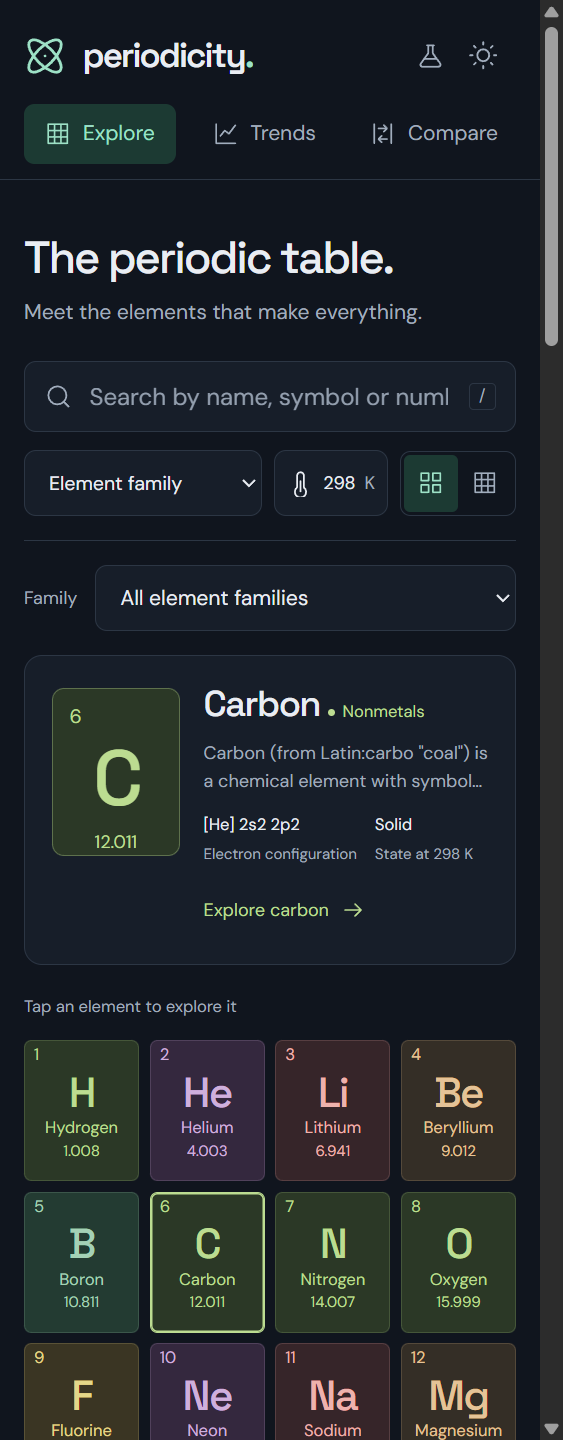
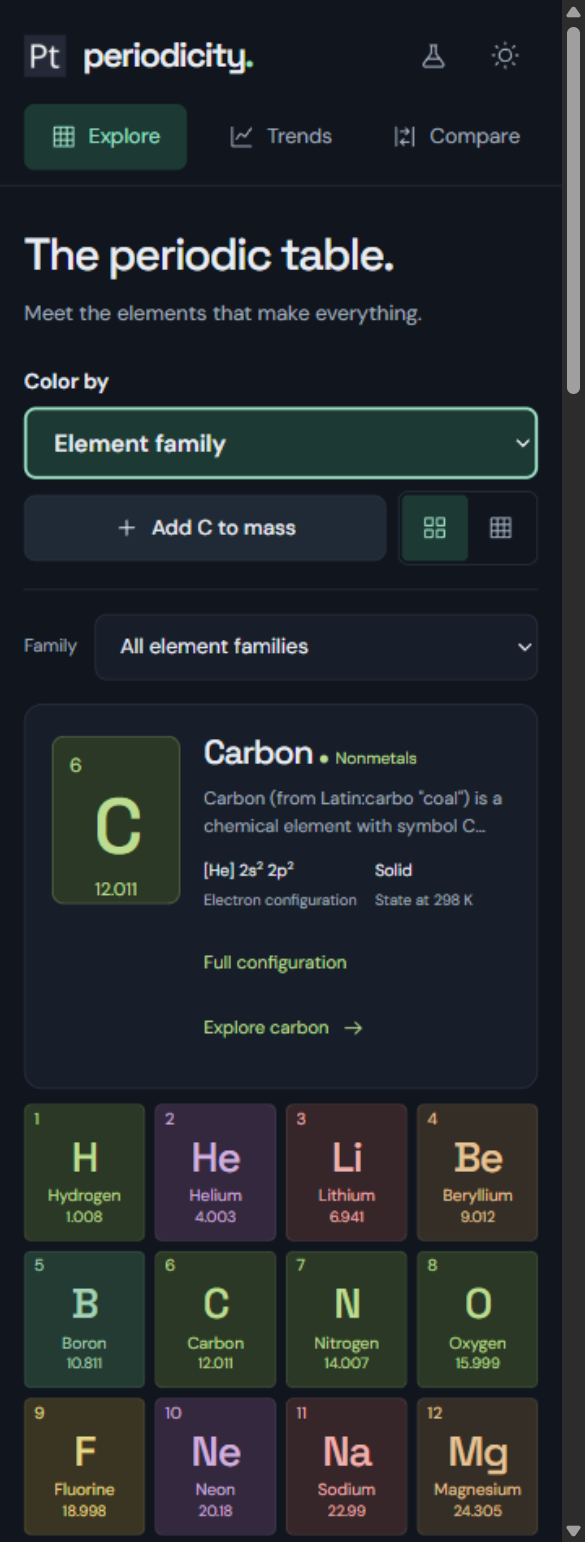
Expand README with feature screenshots
- Document periodic table, trends, comparison, and calculator workflows
- Add screenshots for desktop, mobile, appearance, and feature examples

diff --git a/README.md b/README.md
@@ -2,7 +2,7 @@
 
 An interactive atlas of all 118 chemical elements, rebuilt with **Bun, SvelteKit 3, Svelte 5, and TypeScript**.
 
-![Periodicity in dark appearance](screenshots/periodicity-desktop.png)
+![Periodicity desktop periodic table in dark appearance](screenshots/periodicity-desktop.png)
 
 Explore the periodic table, follow six periodic trends, compare up to four elements, and calculate molecular mass from a chemical formula.
 
@@ -39,18 +39,90 @@ The Playwright suite starts a local preview server and covers URL initialization
 
 ## Explore
 
-- **Periodic table:** Highlight a family; inspect an element; switch between family colors, physical states, and property heatmaps.
-- **Full electron configuration:** Select “Full configuration” in an element preview to expand its noble-gas core without leaving the table. Switch between Short, Full, and By shell, and copy the current view as plain text. Close with Escape, the Close button, or the backdrop; keyboard focus returns to the entry button. The element page uses the same viewer, defaults to Full, and preserves the view when browsing neighboring elements. Share a view with `/element/26/?configuration=shell#electronic-heading`.
-- **Quick molar mass:** Right-click element tiles to add atoms, or focus a tile and press Shift+Enter. Repeated elements become formula subscripts; the table preview shows the individual atomic masses and total in g/mol. On touch screens, select an element and use “Add [symbol] to mass.” Undo removes the last atom; Close or Escape clears the calculation. Open “Full calculator” for the formula’s composition and mass percentages.
-- **Temperature:** Select “Physical state” in the left-hand “Color by” menu to show temperature controls and state counts. On desktop, the borderless controls retain their layout space when hidden, so switching modes does not move the table. Small windows collapse the hidden controls to keep the element grid close to the toolbar. Explore estimated states from 0–6,000 K; adjusting the temperature activates physical-state coloring. This is an educational approximation at ordinary pressure. Missing measurements remain unknown, and transitions that do not define a liquid interval are handled separately.
-- **Trends:** Switch between ionization energy, electronegativity, atomic radius, electron affinity, density, and melting point. Inspect exact values on an interactive chart or a sortable, searchable, paginated table. Missing data are represented by gaps, rather than zeroes.
-- **Element pages:** Read the original summaries, electron configurations, discovery information, and physical properties; inspect an illustrative shell model; and navigate to neighboring elements.
-- **Compare:** Click elements directly on the periodic table to compare up to four elements. Click a selected tile again or click its label to remove it, or clear the whole selection. Use arrow keys to move between tiles and Enter or Space to select. On small screens, switch between a grid and the horizontally scrollable full table. Compare atomic, physical, and chemical properties, including full electron configurations with differing orbital occupancies highlighted, and share selections through the URL.
-- **Molar mass:** Enter formulas such as `H2O`, `C6H12O6`, `Ca(OH)2`, `K4[Fe(CN)6]`, or `CuSO4·5H2O`. Nested parentheses and brackets, pasted subscripts, and middle-dot hydrates are supported. Results include each element's contribution and mass percentage.
+### Periodic table
+
+Explore all 118 elements, highlight one or more families, and select a tile to inspect its atomic mass, electron configuration, and physical state. Use **Color by** to switch between family colors, physical states, and property heatmaps; the example below maps electronegativity with fluorine selected.
+
+![Periodic table colored by electronegativity with fluorine selected](screenshots/periodicity-heatmap.png)
+
+### Full electron configuration
+
+Select **Full configuration** in an element preview to expand its noble-gas core without leaving the table. Switch between **Short**, **Full**, and **By shell**, or copy the current view as plain text; the screenshot shows iron’s electrons grouped by principal shell. Close with Escape, **Close**, or the backdrop to return focus to the entry button.
+
+The element page uses the same viewer, defaults to Full, and preserves the view when browsing neighboring elements. Share a shell view with `/element/26/?configuration=shell#electronic-heading`.
+
+![Iron electron configuration dialog in By shell view](screenshots/periodicity-configuration.png)
+
+### Quick molar mass
+
+Build a formula directly on the periodic table: right-click tiles or focus a tile and press Shift+Enter to add atoms. On touch screens, select an element and use **Add [symbol] to mass**. Repeated elements become subscripts, and the preview shows each atomic mass and the total; adding two hydrogen atoms and one oxygen atom gives `H2O`, at **18.015 g/mol**.
+
+**Undo** removes the last atom; **Close** or Escape clears the calculation. Open **Full calculator** to see the composition and mass percentages.
+
+![Quick molar mass preview calculating water from two hydrogen atoms and one oxygen atom](screenshots/periodicity-quick-mass.png)
+
+### Temperature and physical states
+
+Choose **Physical state** in the **Color by** menu, then adjust the slider or enter a temperature from **0–6,000 K**. The table updates its colors and solid, liquid, gas, and unknown counts; the example shows the estimated states at **1,000 K**.
+
+These states are educational approximations at ordinary pressure. Missing measurements remain unknown, and transitions without a liquid interval are handled separately. Desktop controls keep their layout space when hidden; small windows collapse it to keep the grid close to the toolbar.
+
+![Periodic table showing estimated physical states at 1000 kelvin](screenshots/periodicity-temperature.png)
+
+### Periodic trends
+
+Follow six properties: ionization energy, electronegativity, atomic radius, electron affinity, density, and melting point. Filter by period and inspect exact values on the interactive chart, or switch to **Data** for a sortable, searchable, paginated table. Missing measurements appear as gaps or unavailable values, rather than zeroes.
+
+![Ionization energy chart across all periods with an exact hydrogen value and recorded extremes](screenshots/periodicity-trends.png)
+
+<details>
+<summary>Data view: electronegativity in period 3</summary>
+
+![Electronegativity data table filtered to period 3 with sorting, search, and pagination controls](screenshots/periodicity-trends-data.png)
+
+</details>
+
+### Element pages
+
+Open an element’s page to read its original summary, discovery information, and physical properties. Inspect an illustrative electron-shell model, expand the electron configuration, and see the element’s position on a periodic trend chart. Neighbor links let you continue through the table; the example below explores iron.
+
+![Iron detail page with its summary, shell model, physical properties, full electron configuration, and trend chart](screenshots/periodicity-element.png)
+
+### Compare elements
+
+Select up to four elements directly on the comparison page’s periodic table, then inspect their atomic structure and physical and chemical properties side by side. Full electron configurations highlight orbitals whose occupancies differ; the example compares **carbon, silicon, germanium, and tin** from group 14.
+
+Click a selected tile again or its label to remove it, or use **Clear all** to start over. Arrow keys move between tiles, and Enter or Space selects them. Small screens offer a grid and a horizontally scrollable full table, and selections are saved in the page’s URL for sharing.
+
+![Side-by-side comparison of carbon, silicon, germanium, and tin with differing orbital occupancies highlighted](screenshots/periodicity-compare.png)
+
+### Molar mass calculator
+
+Enter a chemical formula to calculate its molar mass, atom counts, each element’s contribution, and mass percentages. Formulas such as `H2O`, `C6H12O6`, `Ca(OH)2`, and `K4[Fe(CN)6]` support nested parentheses and brackets, pasted subscripts, and middle-dot hydrates.
+
+The example calculates **copper sulfate pentahydrate**, `CuSO4·5H2O`, at **249.682 g/mol**, with a breakdown of all four elements. Use the built-in examples to try another formula, or share a calculated formula through the page’s URL.
+
+![Copper sulfate pentahydrate molar mass calculation with atom counts, elemental contributions, and mass percentages](screenshots/periodicity-calculator.png)
+
+### Mobile layout, appearance, and accessibility
 
 On small screens, the default element grid remains readable and element previews size to their content. The Table control shows the complete 18-group layout in a labeled scroll region. Selecting an element locks its preview; select it again to open its detail page. Family filtering remains available above the grid.
 
+<details>
+<summary>Mobile preview</summary>
+
+<img src="screenshots/periodicity-mobile.png" alt="Periodicity mobile element grid and carbon preview in dark appearance" width="390" />
+
+</details>
+
 Use arrow keys to move around the desktop periodic table or mobile grid, and Enter or Space to select. All controls have visible focus indicators. Both appearances are paired independently, respect reduced motion, and remember the selected appearance when browser storage is available.
+
+<details>
+<summary>Light appearance</summary>
+
+![Periodic table and carbon preview in light appearance](screenshots/periodicity-light.png)
+
+</details>
 
 ## Deployment
 
